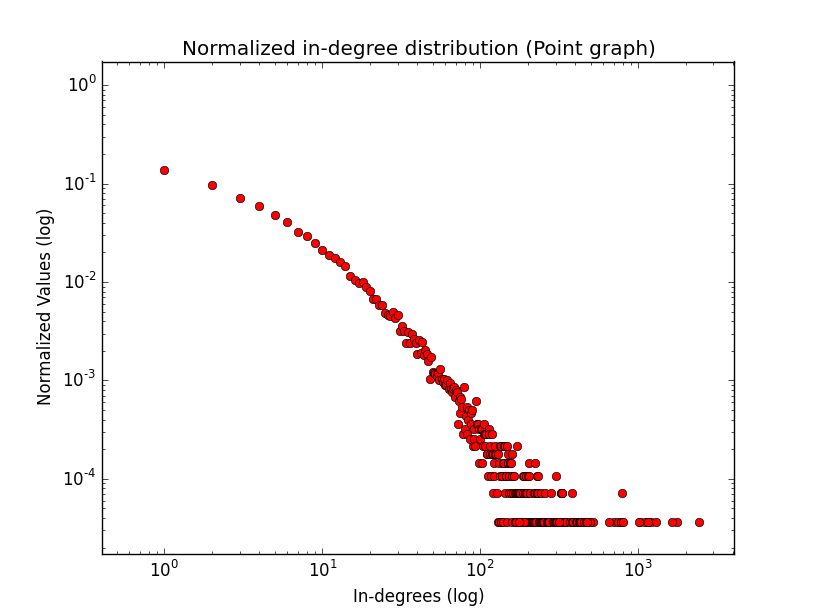
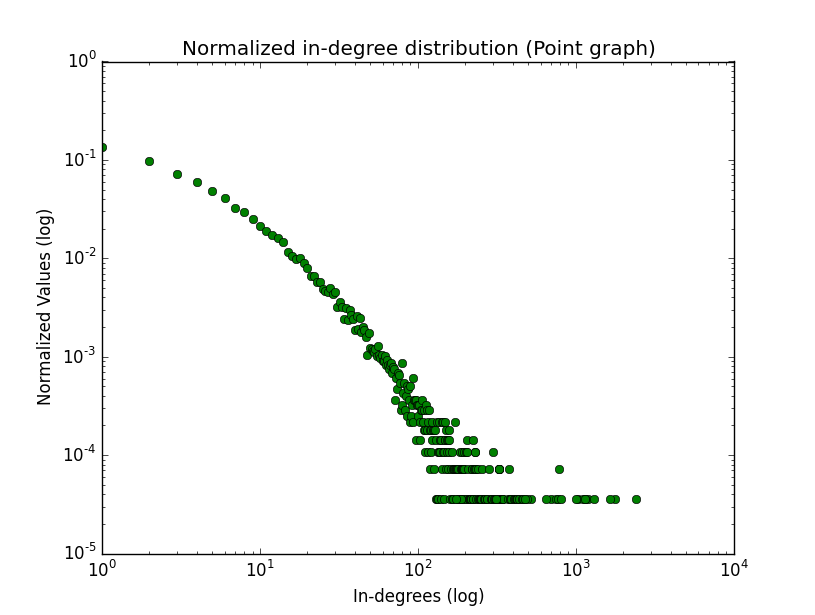
updated plot function
added comments to the plot function to explain how it works. Also
changed to graph to use Green instead of red

diff --git a/Algorithmic-Thinking/Module-1/Application/Citation_Graphs.py b/Algorithmic-Thinking/Module-1/Application/Citation_Graphs.py
@@ -130,12 +130,13 @@ def normalize_in_degree_distribution(digraph):
 
     Returns normalized distribution
     """
-    print "Normalizing In-Degree Distribution" # Status indicator for long processing times
+    print "Start Normalizing In-Degree Distribution" # Status indicator for long processing times
     normalize_dist = {} # Create blank dict
     node_count = len(digraph) # get node count
     unnormized_dist = in_degree_distribution(digraph) # compute unnormalized dist and save to var
     for in_degree in iter(unnormized_dist.viewkeys()): # create and iter view and loop through each value
         normalize_dist[in_degree] = unnormized_dist[in_degree] / node_count
+    print "End Normalizing In-Degree Distribution" # Status indicator for long processing times
 
     return normalize_dist
 #end normize_in_degree_distribution function
@@ -145,15 +146,15 @@ def plot_normalized_in_degrees(ndigraph):
     Creates a log/log plot of the points from a normalized distribution
     """
     print "Creating Plot" # Status indicator for long processing times
-    plot.title('Normalized in-degree distribution (Point graph)')
-    plot.xlabel('In-degrees (log)')
-    plot.ylabel('Normalized Values (log)')
-    plot.xscale("log")
-    plot.yscale("log")
-    plot.plot(ndigraph.keys(), ndigraph.values(), 'ro')
-    plot.show()
+    plot.title('Normalized in-degree distribution (Point graph)') # Sets the name of the graph window
+    plot.xlabel('In-degrees (log)') # Labels the X cords
+    plot.ylabel('Normalized Values (log)') # Labels the Y Cords
+    plot.xscale("log") # Sets the Scale of the graph on x cords to log
+    plot.yscale("log") # Sets the Scale of the graph on y cords to log
+    plot.plot(ndigraph.keys(), ndigraph.values(), "go") # creates the graph using the cords. (This case uses the degree distribution as X and the percentage of times it appears as Y. **kwargs as "g" for the color green. "o" for marker type: Circle
+    plot.show() # Displays the Graph
 
-    return
+    return # returns nothing
 
 """
 example usages:
